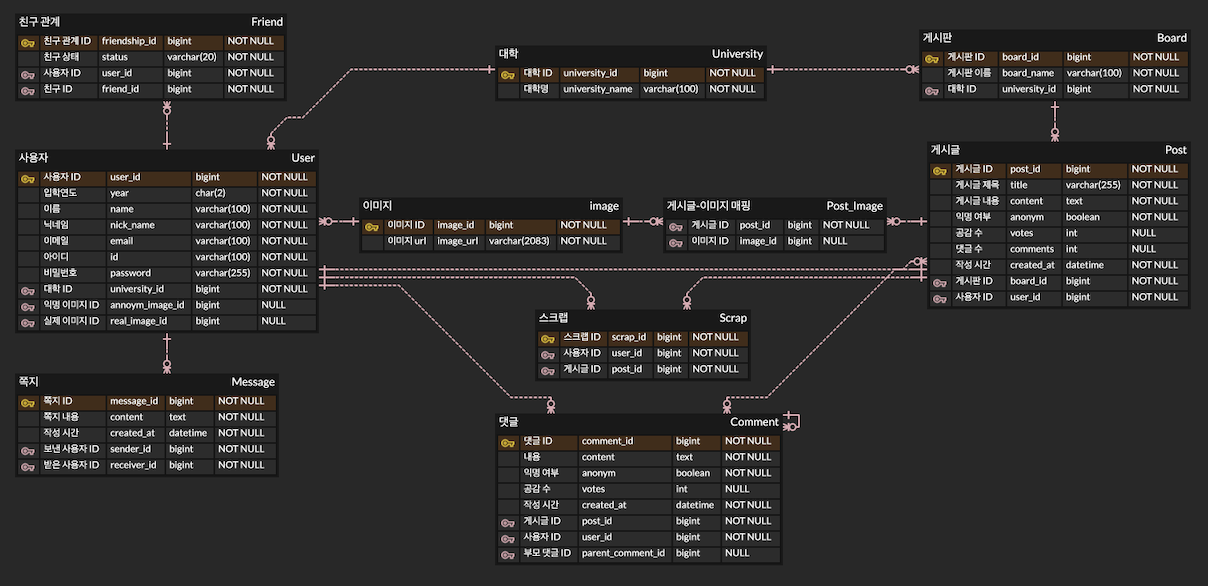
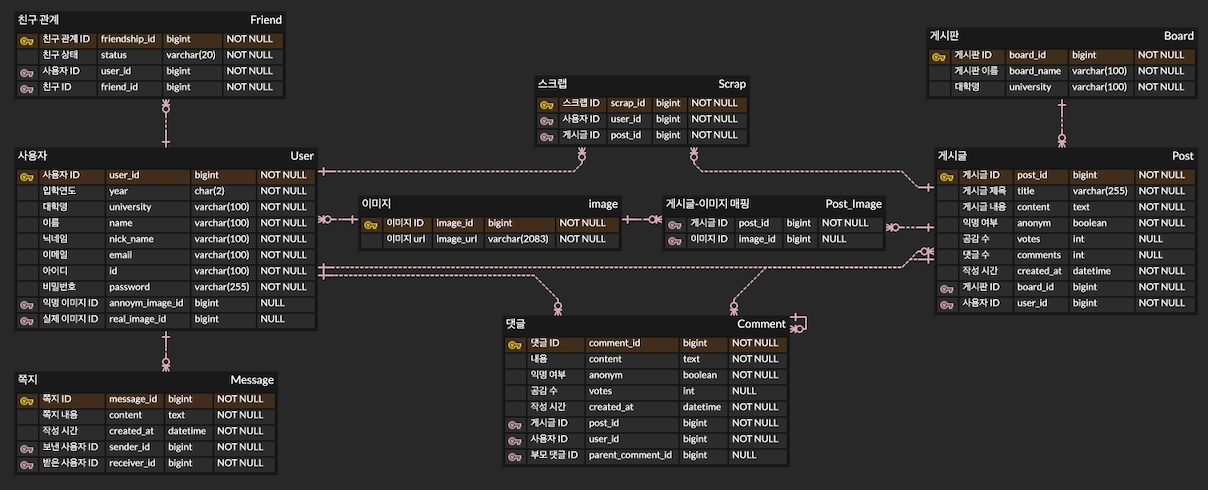
✨ Feat: 자체 회원가입 구현

Changed region(s): [[0.0, 0.0306, 1.0, 0.9796]]

diff --git a/week04/duoh/everytime/src/main/java/com/goormthon/everytime/global/exception/ControllerExceptionAdvice.java b/week04/duoh/everytime/src/main/java/com/goormthon/everytime/global/exception/ControllerExceptionAdvice.java
@@ -10,9 +10,9 @@ import org.springframework.web.bind.MethodArgumentNotValidException;
 import org.springframework.web.bind.annotation.ExceptionHandler;
 import org.springframework.web.bind.annotation.RestControllerAdvice;
 
+import java.util.HashMap;
 import java.util.Map;
 import java.util.Optional;
-import java.util.stream.Collectors;
 
 @RestControllerAdvice
 public class ControllerExceptionAdvice {
@@ -25,16 +25,18 @@ public class ControllerExceptionAdvice {
     }
 
     @ExceptionHandler(MethodArgumentNotValidException.class)
-    public ResponseEntity<ApiResTemplate<String>> handleValidationExceptions(MethodArgumentNotValidException e) {
-        Map<String, String> errorMap = e.getBindingResult().getFieldErrors().stream()
-                .collect(Collectors.toMap(FieldError::getField,
-                        fieldError -> Optional.ofNullable(fieldError.getDefaultMessage()).orElse(ErrorCode.VALIDATION_ERROR.getMessage())));
+    public ResponseEntity<ApiResTemplate<Map<String, String>>> handleValidationExceptions(MethodArgumentNotValidException e) {
+        Map<String, String> errorMap = new HashMap<>();
+        for (FieldError error : e.getBindingResult().getFieldErrors()) {
+            errorMap.putIfAbsent(error.getField(), Optional.ofNullable(error.getDefaultMessage())
+                    .orElse(ErrorCode.VALIDATION_ERROR.getMessage()));
+        }
 
         return ResponseEntity
                 .status(ErrorCode.VALIDATION_ERROR.getHttpStatus())
-                .body(ApiResTemplate.<String>error(ErrorCode.VALIDATION_ERROR)
+                .body(ApiResTemplate.<Map<String, String>>error(ErrorCode.VALIDATION_ERROR)
                         .toBuilder()
-                        .data(convertMapToString(errorMap))
+                        .data(errorMap)
                         .build());
     }
 
@@ -43,11 +45,5 @@ public class ControllerExceptionAdvice {
         return ResponseEntity
                 .status(HttpStatus.BAD_REQUEST)
                 .body(ApiResTemplate.error(ErrorCode.JSON_PARSE_ERROR));
-    }
-
-    private String convertMapToString(Map<String, String> map) {
-        return map.entrySet().stream()
-                .map(entry -> entry.getKey() + " : " + entry.getValue())
-                .collect(Collectors.joining(", "));
     }
 }

diff --git a/week04/duoh/everytime/src/main/java/com/goormthon/everytime/app/dto/auth/reqDto/SignUpReqDto.java b/week04/duoh/everytime/src/main/java/com/goormthon/everytime/app/dto/auth/reqDto/SignUpReqDto.java
@@ -1,0 +1,58 @@
+package com.goormthon.everytime.app.dto.auth.reqDto;
+
+import com.goormthon.everytime.app.domain.user.RoleType;
+import com.goormthon.everytime.app.domain.user.User;
+import com.goormthon.everytime.app.domain.user.University;
+import jakarta.validation.constraints.NotBlank;
+import jakarta.validation.constraints.Pattern;
+
+public record SignUpReqDto(
+        @NotBlank(message = "입학연도가 공백일 수 없습니다.")
+        @Pattern(
+                regexp = "^\\d{2}$",
+                message = "입학연도는 숫자 2자리여야 합니다."
+        )
+        String year,
+
+        @NotBlank(message = "대학명이 공백일 수 없습니다.")
+        String universityName,
+
+        @NotBlank(message = "이름이 공백일 수 없습니다.")
+        String name,
+
+        @NotBlank(message = "닉네임이 공백일 수 없습니다.")
+        String nickName,
+
+        @NotBlank(message = "이메일이 공백일 수 없습니다.")
+        @Pattern(
+                regexp = "^[A-Za-z0-9+_.-]+@[A-Za-z0-9.-]+\\.[A-Za-z]{2,}$",
+                message = "이메일을 다시 확인해주세요."
+        )
+        String email,
+
+        @NotBlank(message = "아이디가 공백일 수 없습니다.")
+        String id,
+
+        @NotBlank(message = "비밀번호가 공백일 수 없습니다.")
+        @Pattern(
+                regexp = "^(?=.*[A-Za-z])(?=.*\\d)(?=.*[!@#$%^&*])[A-Za-z\\d!@#$%^&*]+$",
+                message = "비밀번호는 대소문자, 특수문자, 숫자가 포함되어야 합니다."
+        )
+        String password,
+
+        @NotBlank(message = "비밀번호 재확인이 공백일 수 없습니다.")
+        String checkPassword
+) {
+    public User toEntity(String encodedPassword, University university) {
+        return User.builder()
+                .year(this.year)
+                .university(university)
+                .name(this.name)
+                .nickName(this.nickName)
+                .email(this.email)
+                .id(this.id)
+                .password(encodedPassword)
+                .roleType(RoleType.ROLE_USER)
+                .build();
+    }
+}

diff --git a/week04/duoh/everytime/src/main/java/com/goormthon/everytime/app/service/auth/SignUpService.java b/week04/duoh/everytime/src/main/java/com/goormthon/everytime/app/service/auth/SignUpService.java
@@ -1,0 +1,49 @@
+package com.goormthon.everytime.app.service.auth;
+
+import com.goormthon.everytime.app.domain.user.University;
+import com.goormthon.everytime.app.domain.user.User;
+import com.goormthon.everytime.app.dto.auth.reqDto.SignUpReqDto;
+import com.goormthon.everytime.app.repository.UserRepository;
+import com.goormthon.everytime.global.exception.CustomException;
+import com.goormthon.everytime.global.exception.code.ErrorCode;
+import com.goormthon.everytime.global.exception.code.SuccessCode;
+import com.goormthon.everytime.global.template.ApiResTemplate;
+import lombok.RequiredArgsConstructor;
+import org.springframework.security.crypto.password.PasswordEncoder;
+import org.springframework.stereotype.Service;
+import org.springframework.transaction.annotation.Transactional;
+
+@Service
+@RequiredArgsConstructor
+public class SignUpService {
+
+    private final UserRepository userRepository;
+    private final PasswordEncoder passwordEncoder;
+
+    @Transactional
+    public ApiResTemplate<Void> signUp(SignUpReqDto reqDto) {
+        validateSignUpReq(reqDto);
+
+        University university = University.fromDisplayName(reqDto.universityName());
+        String encodedPassword = passwordEncoder.encode(reqDto.password());
+
+        User user = reqDto.toEntity(encodedPassword, university);
+        userRepository.save(user);
+
+        return ApiResTemplate.success(SuccessCode.SIGNUP_USER_SUCCESS, null);
+    }
+
+    private void validateSignUpReq(SignUpReqDto reqDto) {
+        if (userRepository.existsByEmail(reqDto.email())) {
+            throw new CustomException(ErrorCode.EMAIL_ALREADY_EXISTS, ErrorCode.EMAIL_ALREADY_EXISTS.getMessage());
+        }
+
+        if (userRepository.existsById(reqDto.id())) {
+            throw new CustomException(ErrorCode.ID_ALREADY_EXISTS, ErrorCode.ID_ALREADY_EXISTS.getMessage());
+        }
+
+        if (!reqDto.password().equals(reqDto.checkPassword())) {
+            throw new CustomException(ErrorCode.PASSWORD_MISSMATCH, ErrorCode.PASSWORD_MISSMATCH.getMessage());
+        }
+    }
+}

diff --git a/week04/duoh/everytime/src/main/java/com/goormthon/everytime/app/controller/auth/AuthController.java b/week04/duoh/everytime/src/main/java/com/goormthon/everytime/app/controller/auth/AuthController.java
@@ -1,0 +1,40 @@
+package com.goormthon.everytime.app.controller.auth;
+
+import com.goormthon.everytime.app.dto.auth.reqDto.SignUpReqDto;
+import com.goormthon.everytime.app.service.auth.SignUpService;
+import com.goormthon.everytime.global.template.ApiResTemplate;
+import io.swagger.v3.oas.annotations.Operation;
+import io.swagger.v3.oas.annotations.responses.ApiResponse;
+import io.swagger.v3.oas.annotations.tags.Tag;
+import jakarta.validation.Valid;
+import lombok.RequiredArgsConstructor;
+import org.springframework.http.ResponseEntity;
+import org.springframework.web.bind.annotation.PostMapping;
+import org.springframework.web.bind.annotation.RequestBody;
+import org.springframework.web.bind.annotation.RequestMapping;
+import org.springframework.web.bind.annotation.RestController;
+
+@RestController
+@RequiredArgsConstructor
+@Tag(name = "회원가입/로그인", description = "회원가입/로그인을 담당하는 api 그룹")
+@RequestMapping("/user")
+public class AuthController {
+
+    private final SignUpService signUpService;
+
+    @PostMapping("/join")
+    @Operation(
+            summary = "자체 회원가입",
+            description = "사용자로부터 회원가입에 필요한 정보를 입력받아 유효성 검사를 수행한 후, 회원가입을 처리합니다.",
+            responses = {
+                    @ApiResponse(responseCode = "201", description = "회원가입 성공"),
+                    @ApiResponse(responseCode = "400", description = "잘못된 요청"),
+                    @ApiResponse(responseCode = "409", description = "중복된 정보"),
+                    @ApiResponse(responseCode = "500", description = "서버 오류 or 관리자 문의")
+            }
+    )
+    public ResponseEntity<ApiResTemplate<Void>> signUp(@Valid @RequestBody SignUpReqDto reqDto) {
+        ApiResTemplate<Void> data = signUpService.signUp(reqDto);
+        return ResponseEntity.status(data.getStatus()).body(data);
+    }
+}

diff --git a/week04/duoh/everytime/src/main/java/com/goormthon/everytime/app/domain/user/User.java b/week04/duoh/everytime/src/main/java/com/goormthon/everytime/app/domain/user/User.java
@@ -1,7 +1,6 @@
 package com.goormthon.everytime.app.domain.user;
 
 import com.goormthon.everytime.app.domain.image.Image;
-import com.goormthon.everytime.app.domain.user.university.University;
 import jakarta.persistence.*;
 import lombok.AccessLevel;
 import lombok.Builder;
@@ -21,6 +20,10 @@ public class User {
 
     @Column(name = "year", nullable = false, length = 2)
     private String year;
+
+    @Enumerated(EnumType.STRING)
+    @Column(name = "university", nullable = false)
+    private University university;
 
     @Column(name = "name", nullable = false, length = 100)
     private String name;
@@ -42,10 +45,6 @@ public class User {
     private RoleType roleType;
 
     @ManyToOne(fetch = FetchType.LAZY)
-    @JoinColumn(name = "university_id", nullable = false)
-    private University university;
-
-    @ManyToOne(fetch = FetchType.LAZY)
     @JoinColumn(name = "anonym_image_id")
     private Image anonymImage;
 
@@ -54,17 +53,16 @@ public class User {
     private Image realImage;
 
     @Builder
-    private User(String year, String name, String nickName, String email,
-                 String id, String password, RoleType roleType,
-                 University university, Image anonymImage, Image realImage) {
+    private User(String year, University university, String name, String nickName, String email,
+                 String id, String password, RoleType roleType, Image anonymImage, Image realImage) {
         this.year = year;
+        this.university = university;
         this.name = name;
         this.nickName = nickName;
         this.email = email;
         this.id = id;
         this.password = password;
         this.roleType = roleType;
-        this.university = university;
         this.anonymImage = anonymImage;
         this.realImage = realImage;
     }

diff --git a/week04/duoh/everytime/src/main/java/com/goormthon/everytime/global/config/SecurityConfig.java b/week04/duoh/everytime/src/main/java/com/goormthon/everytime/global/config/SecurityConfig.java
@@ -21,6 +21,12 @@ public class SecurityConfig {
 
     private final TokenProvider tokenprovider;
 
+    private final String[] PERMIT_ALL_URLS = {
+            "user/join",
+            "swagger-ui/**",
+            "v3/api-docs/**"
+    };
+
     @Bean
     public SecurityFilterChain filterChain(HttpSecurity httpSecurity) throws Exception {
         return httpSecurity
@@ -31,7 +37,7 @@ public class SecurityConfig {
                 .formLogin(AbstractHttpConfigurer::disable)
                 .logout(AbstractHttpConfigurer::disable)
                 .authorizeHttpRequests(authorizeRequests -> authorizeRequests
-                        .requestMatchers("/api/v1/**", "swagger-ui/**", "v3/api-docs/**").permitAll()
+                        .requestMatchers(PERMIT_ALL_URLS).permitAll()
                         .requestMatchers("/api/v1/admin/**").hasRole("ADMIN") // 관리자만 해당 URL에 접근 가능
                         .anyRequest().authenticated()
                 )

diff --git a/week04/duoh/everytime/src/main/java/com/goormthon/everytime/global/exception/code/ErrorCode.java b/week04/duoh/everytime/src/main/java/com/goormthon/everytime/global/exception/code/ErrorCode.java
@@ -12,6 +12,8 @@ public enum ErrorCode {
     // 400 Bad Request
     VALIDATION_ERROR(HttpStatus.BAD_REQUEST, "유효성 검사에 맞지 않습니다."),
     JSON_PARSE_ERROR(HttpStatus.BAD_REQUEST, "JSON 파싱 중 오류가 발생했습니다."),
+    PASSWORD_MISSMATCH(HttpStatus.BAD_REQUEST, "비밀번호를 다시 확인해주세요."),
+    INVALID_UNIVERSITY_NAME(HttpStatus.BAD_REQUEST, "유효하지 않은 대학명입니다."),
 
     // 401 Unauthorized
     EXPIRED_TOKEN(HttpStatus.UNAUTHORIZED, "토큰이 만료되었습니다."),
@@ -24,11 +26,13 @@ public enum ErrorCode {
     // 404 NOT FOUND
 
     // 409 Conflict
+    EMAIL_ALREADY_EXISTS(HttpStatus.CONFLICT, "이미 존재하는 이메일입니다."),
+    ID_ALREADY_EXISTS(HttpStatus.CONFLICT, "이미 존재하는 아이디입니다.");
 
     // 500 Internal Server Exception
 
     // 503 Service Unavailable
-    ;
+
     private final HttpStatus httpStatus;
     private final String message;
 }

diff --git a/week04/duoh/everytime/src/main/java/com/goormthon/everytime/app/domain/user/University.java b/week04/duoh/everytime/src/main/java/com/goormthon/everytime/app/domain/user/University.java
@@ -1,0 +1,26 @@
+package com.goormthon.everytime.app.domain.user;
+
+import com.goormthon.everytime.global.exception.CustomException;
+import com.goormthon.everytime.global.exception.code.ErrorCode;
+import lombok.Getter;
+import lombok.RequiredArgsConstructor;
+
+import java.util.Arrays;
+
+@Getter
+@RequiredArgsConstructor
+public enum University {
+    SKHU("성공회대"),
+    SNU("서울대"),
+    KU("고려대"),
+    SSU("숭실대");
+
+    private final String displayName;
+
+    public static University fromDisplayName(String displayName) {
+        return Arrays.stream(University.values())
+                .filter(universityName -> universityName.displayName.equals(displayName))
+                .findFirst()
+                .orElseThrow(() -> new CustomException(ErrorCode.INVALID_UNIVERSITY_NAME, ErrorCode.INVALID_UNIVERSITY_NAME.getMessage()));
+    }
+}

diff --git a/week04/duoh/everytime/src/main/java/com/goormthon/everytime/app/domain/board/Board.java b/week04/duoh/everytime/src/main/java/com/goormthon/everytime/app/domain/board/Board.java
@@ -1,6 +1,6 @@
 package com.goormthon.everytime.app.domain.board;
 
-import com.goormthon.everytime.app.domain.user.university.University;
+import com.goormthon.everytime.app.domain.user.University;
 import jakarta.persistence.*;
 import lombok.AccessLevel;
 import lombok.Builder;
@@ -21,8 +21,8 @@ public class Board {
     @Column(name = "board_name", nullable = false, length = 100)
     private BoardName boardName;
 
-    @ManyToOne(fetch = FetchType.LAZY)
-    @JoinColumn(name = "university_id", nullable = false)
+    @Enumerated(EnumType.STRING)
+    @Column(name = "university", nullable = false)
     private University university;
 
     @Builder

diff --git a/week04/duoh/everytime/src/main/java/com/goormthon/everytime/app/repository/UserRepository.java b/week04/duoh/everytime/src/main/java/com/goormthon/everytime/app/repository/UserRepository.java
@@ -1,0 +1,12 @@
+package com.goormthon.everytime.app.repository;
+
+import com.goormthon.everytime.app.domain.user.User;
+import org.springframework.data.jpa.repository.JpaRepository;
+import org.springframework.stereotype.Repository;
+
+@Repository
+public interface UserRepository extends JpaRepository<User, Long> {
+
+    boolean existsByEmail(String email);
+    boolean existsById(String id);
+}

diff --git a/week04/duoh/everytime/src/main/java/com/goormthon/everytime/global/exception/code/SuccessCode.java b/week04/duoh/everytime/src/main/java/com/goormthon/everytime/global/exception/code/SuccessCode.java
@@ -12,9 +12,10 @@ public enum SuccessCode {
     // 200 OK
 
     // 201 Created
+    SIGNUP_USER_SUCCESS(HttpStatus.CREATED, "회원가입에 성공했습니다.");
 
     // 204 No Content
-    ;
+
     private final HttpStatus httpStatus;
     private final String message;
 }
